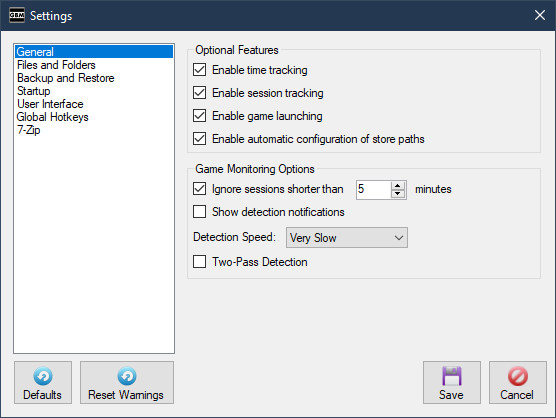
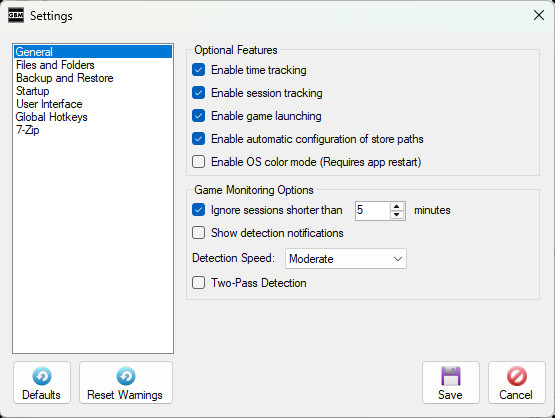
Updates for v142

Changed region(s): [[0.0, 0.0, 1.0, 0.9641], [0.0, 0.8397, 1.0, 1.0]]

diff --git a/manual.html b/manual.html
@@ -30,10 +30,10 @@
       <div id="leftcontent">
         <div class="pageSection">
           <div class="pageSectionHeader">
-            Game Backup Monitor v1.4.0 Manual
+            Game Backup Monitor v1.4.2 Manual
           </div>
           <div class="pageSectionContent">
-            <h3 class="notop">Updated March 12, 2025</h3>
+            <h3 class="notop">Updated July 28, 2025</h3>
             <h3>Important Notes:</h3>
             <p>An offline version of the manual is available <a href="https://github.com/Darthagnon/gbm-manual">here</a>.  The offline manual is kindly provided by <a href="https://github.com/Darthagnon">Darthagnon</a>.</p>
             <p>This manual may contain information about features not available in the current stable release.</p>
@@ -224,7 +224,7 @@
             <p>Clicking Cancel or closing the window will cancel any changes made on this screen.</p>
             <p>When modifying the backup folder or any sync settings, be sure to read any warning messages carefully.</p>
             <h3 class="subsection"><a name="settings_general" id="settings_general">General</a></h3>
-            <img class="manual" src="images/manual/manual_15.jpg" width="556" height="418" alt="Settings" />            
+            <img class="manual" src="images/manual/manual_15.jpg" width="555" height="418" alt="Settings" />            
             <h4>Enable time tracking:</h4>
             <p>GBM will record and display game session times when this is enabled. When it's disabled no time data is recorded or displayed. Toggling this setting has no effect on time data that's already been recorded.</p>
             <h4>Enable session tracking:</h4>
@@ -233,6 +233,10 @@
             <p>When enabled, all features related to <a href="#launcher">launching games</a> from GBM become available.  This includes the "Launcher Manager", "Launch Settings", the "Play" button on the main window and the recently played tray menu options.  The "Session Tracking" feature needs to be enabled and have enough recorded data to display any recently played games in the system tray menu.</p>
             <h4>Enable automatic configuration of store paths:</h4>
             <p>When enabled, GBM will attempt to automatically create path variables for store specific locations such as Steam Cloud.  See the <a href="#storevariables">Store Variables</a> section for more details.</p>            
+            <h4>Enable OS color mode (Requires app restart)</h4>
+            <p>When enabled, GBM will use Light or Dark mode depending on your Windows operating system setting.  You need to restart GBM for this setting to fully take effect.</p>
+            <p>When disabled, GBM will always use the classic WinForms colors (Light mode).</p>
+            <p>This setting is not available in Linux.</p>
             <h4>Ignore sessions shorter than X minutes:</h4>
             <p>GBM can suppress backups if a session time is too short. This is useful to prevent unwanted backups just because you loaded a game for a few minutes. If session tracking is enabled, it will use this setting and ignore short sessions.</p>
             <h4>Show detection notifications:</h4>

diff --git a/index.html b/index.html
@@ -45,8 +45,8 @@
           <div class="pageSectionContent">
             <h3 class="notop">Important News</h3>
             <ul>        
-              <li>After a decade of development, Game Backup Monitor is now considered as <b>complete</b> and will not be receiving any major changes.  This does <b>not</b> mean the software is abandoned, updates are still released as required and may contain new minor features.</li>
-              <li><a href="https://github.com/MikeMaximus/gbm/releases/tag/v1.4.1">v1.4.1</a> has been released!</li>
+              <li><a href="https://github.com/MikeMaximus/gbm/releases/tag/v1.4.2">v1.4.2</a> has been released!</li>
+              <li>After a decade of development, Game Backup Monitor is now considered as <b>complete</b> and will not be receiving any major changes.  This does <b>not</b> mean the software is abandoned, updates are still released as required and may contain new minor features.</li>              
             </ul>
             <h3>Notices</h3>
             <ul>
@@ -64,7 +64,7 @@
                 </ul>
               </li>
             </ul>
-            <h3>Updated May 21, 2025</h3>
+            <h3>Updated July 28, 2025</h3>
           </div>
         </div>
         <div class="pageSection">
